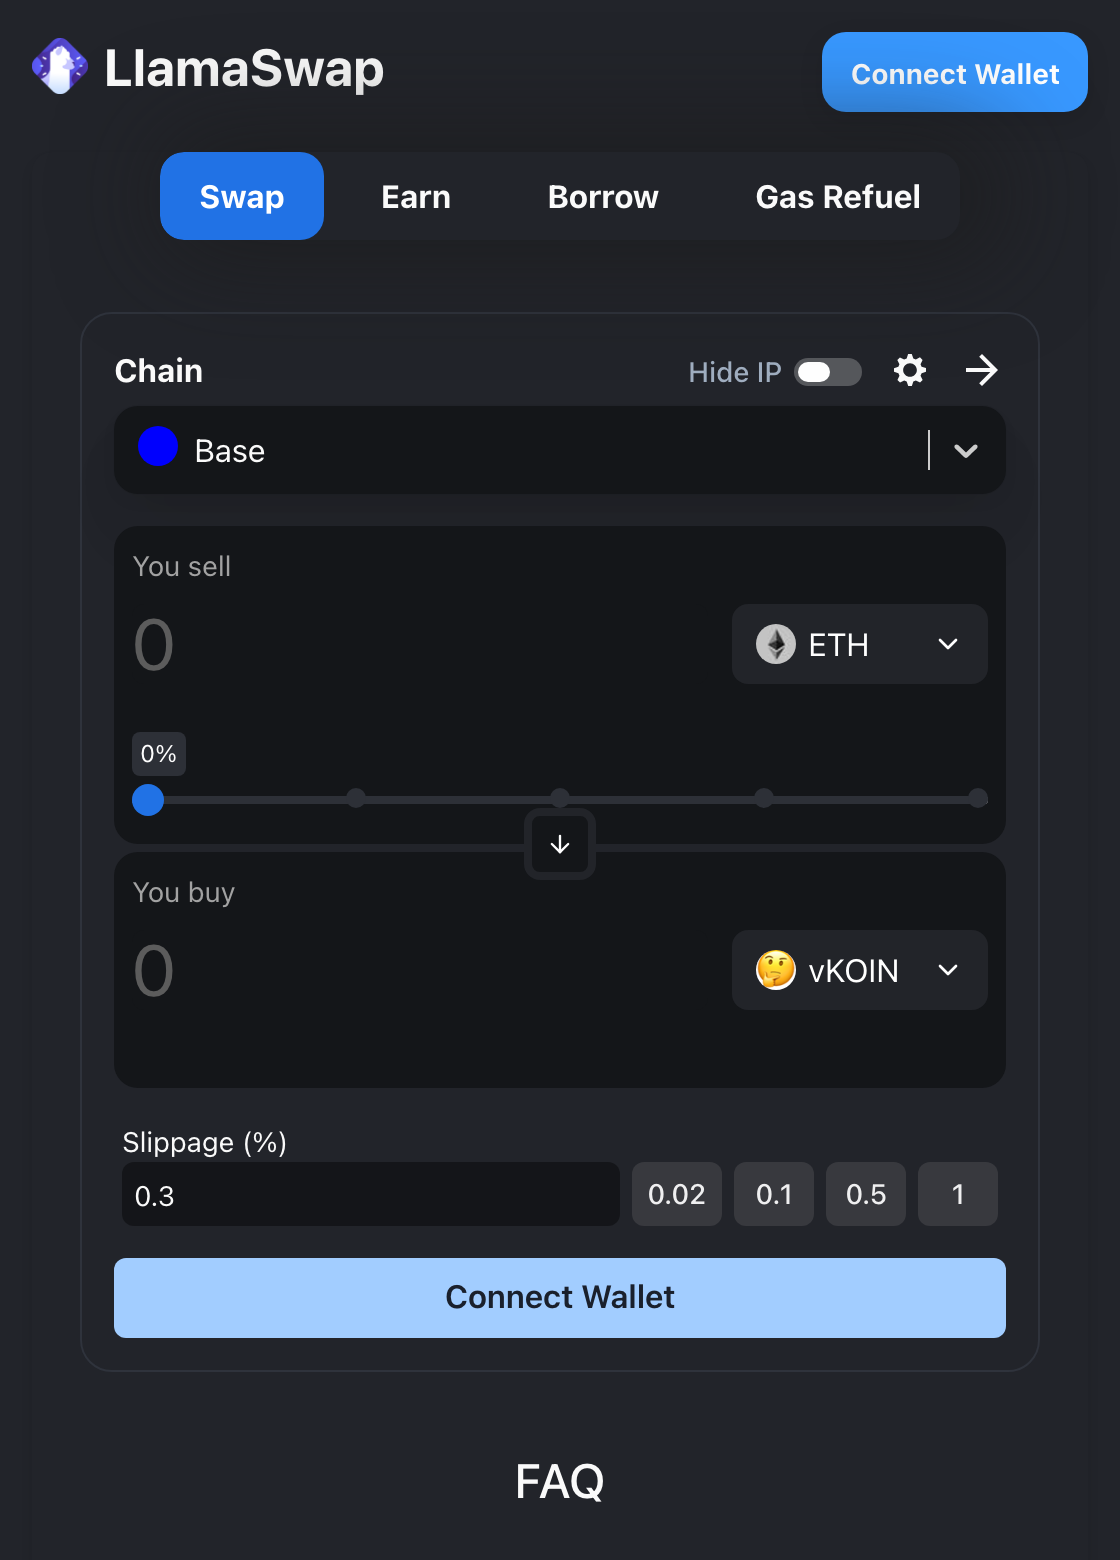
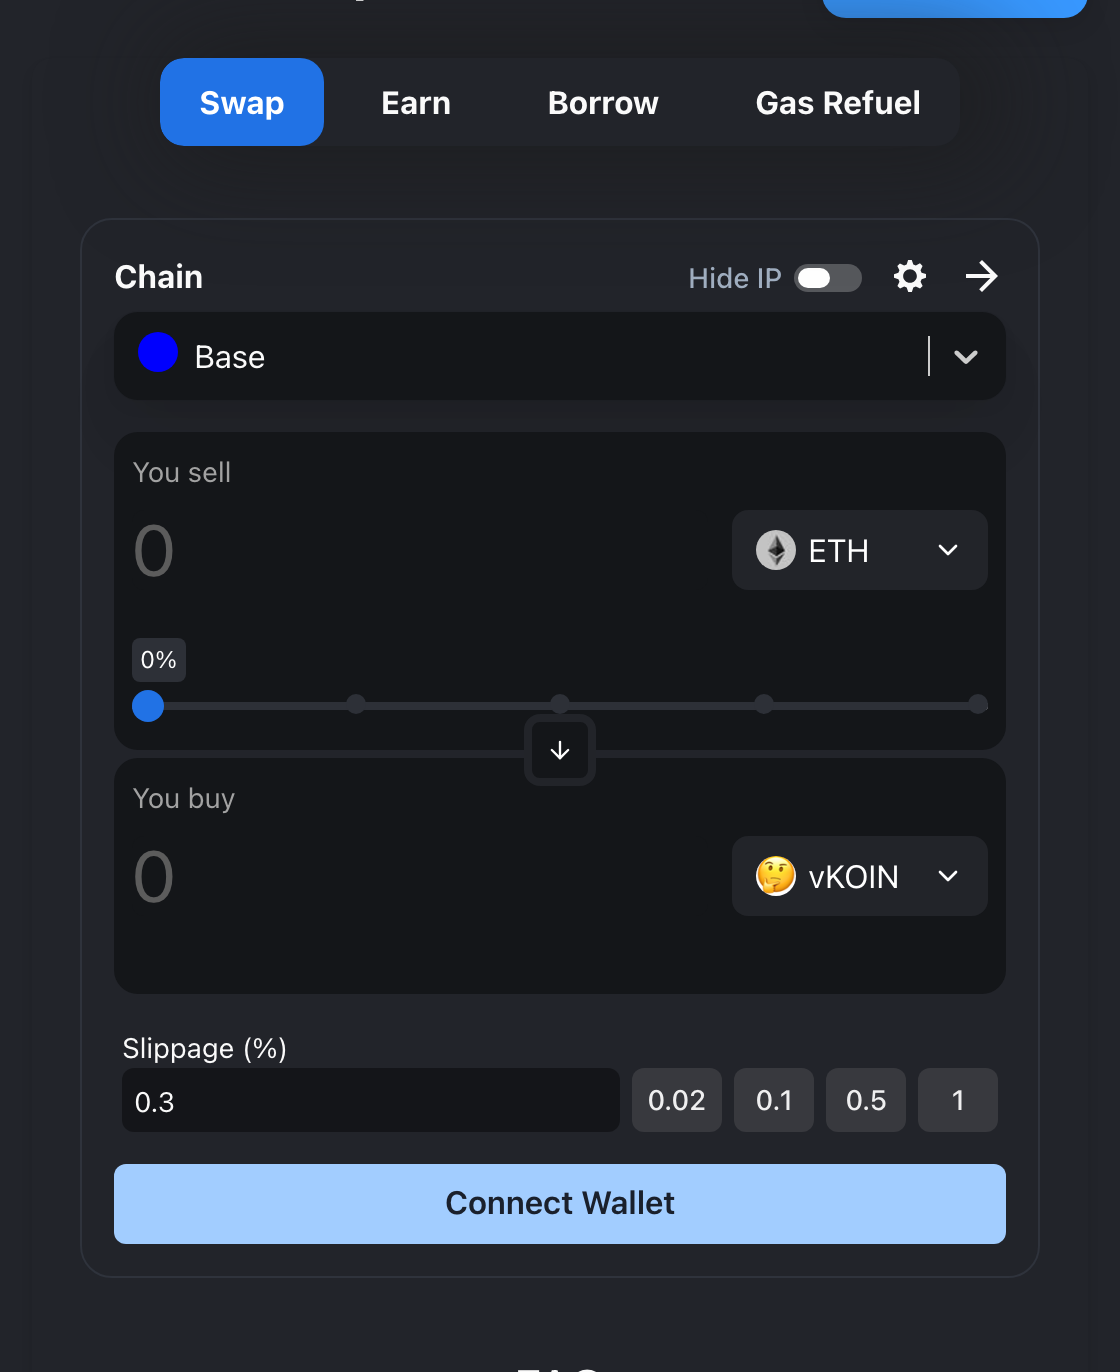
Address fourth review: Phantom EVM facts, footer wording, approval note, less bloat
- Phantom shares one 0x address between Ethereum and Base and keeps a
  separate Solana address; it detects tokens itself and has no
  import-by-address. The copy said otherwise.
- The footer told readers to trust their own screen when it differs from
  a screenshot; a wrong screen is exactly when to stop. Now says so.
- Restore one safety line: a token permission outlives disconnecting.
- Drop wallet summaries that repeated the family label; bridge step
  back to two callouts; DeFiLlama screenshots cropped above their FAQ.

diff --git a/data/getKoin.js b/data/getKoin.js
@@ -44,7 +44,6 @@ export const WALLETS = [
     id: "metamask",
     name: "MetaMask",
     family: "Ethereum and Base",
-    summary: "The most common browser wallet for Ethereum and Base.",
     install: "https://metamask.io/download",
     installLabel: "metamask.io/download",
     routes: ["ethereum", "base"],
@@ -60,8 +59,6 @@ export const WALLETS = [
     id: "rabby",
     name: "Rabby",
     family: "Ethereum and Base",
-    summary:
-      "A browser wallet for Ethereum-style networks that simulates each transaction before you sign it.",
     install: "https://rabby.io/",
     installLabel: "rabby.io",
     routes: ["ethereum", "base"],
@@ -77,26 +74,22 @@ export const WALLETS = [
     id: "phantom",
     name: "Phantom",
     family: "Solana, Ethereum and Base",
-    summary:
-      "A browser wallet that started on Solana and now also supports Ethereum and Base.",
     install: "https://phantom.com/download",
     installLabel: "phantom.com/download",
     routes: ["ethereum", "base", "solana"],
-    addressKind: "a separate address for each network",
+    addressKind: "two addresses",
     addressNote:
-      "Copy the one for the network in your plan; the Solana and Ethereum addresses look nothing alike.",
+      "One 0x address shared by Ethereum and Base, and a separate Solana address. Copy the one for the network in your plan.",
     quirks: [
-      "Open Receive and pick the network first — Phantom shows a different address for each.",
-      "On Solana, tokens usually appear by themselves. On Ethereum and Base you may need to add vKOIN by address.",
-      "Keep a little SOL or ETH on the network you use; every action costs a small fee.",
+      "Open Receive and pick the network first. Ethereum and Base share one address; Solana has its own.",
+      "Phantom finds tokens by itself and has no import-by-address. If vKOIN is missing, check the transaction in the explorer, then Phantom's hidden tokens list.",
+      "Keep some SOL or ETH on the network you use; every transaction costs a fee, and on Ethereum it is not always small.",
     ],
   },
   {
     id: "kondor",
     name: "Kondor",
     family: "Koinos",
-    summary:
-      "The Koinos browser wallet. It holds native KOIN and connects to KoinDX and the Koinos side of Vortex.",
     install: "https://kondorwallet.com/",
     installLabel: "kondorwallet.com",
     routes: ["koinos"],
@@ -113,9 +106,11 @@ export const WALLETS = [
 //
 // Vortex bridges Koinos <-> Ethereum only (its network chooser offers exactly
 // those two). vKOIN on Base and Solana is the Ethereum vKOIN moved there through
-// Portal (Wormhole) — verified on-chain: the Base contract reports Wormhole
-// chain id 2 (Ethereum) and the Solana mint authority is the Wormhole token
-// bridge. So those routes stop at vKOIN.
+// Portal (Wormhole). Evidence: the Base contract answers Wormhole
+// TokenImplementation.chainId() = 2 (Ethereum origin), the Solana mint
+// authority is the Wormhole token bridge, and the project's own announcements
+// (data/history-content.json) describe the Wormhole/Portal route. So those
+// routes stop at vKOIN.
 //
 // The Koinos route is not a way to buy a first KOIN: an empty Koinos account
 // has no mana of its own.
@@ -423,10 +418,6 @@ function bridgeStep() {
     ],
     callouts: [
       {
-        type: "warning",
-        text: "Keep the transaction hash. Without it a half-finished transfer is hard to resume.",
-      },
-      {
         type: "cost",
         text: "Ethereum fees for the permission and the deposit. The redeem runs on Koinos, where transactions use mana — if your Kondor account is new and empty, read what the redeem asks for before you deposit.",
       },
@@ -595,6 +586,7 @@ export const SAFETY = {
     "Compare token and destination addresses in full, not just the ends.",
     "Small test amount first. Keep some ETH or SOL for the next step.",
     "Read every wallet pop-up. Site, token, amount and destination must match the step you are on.",
+    "A token permission outlives disconnecting from a site. Approve only the amount you need, and revoke it afterwards.",
     "Ignore anyone who contacts you privately offering help, recovery or a better price.",
   ],
 };

diff --git a/pages/get-koin.js b/pages/get-koin.js
@@ -532,7 +532,6 @@ export default function GetKoinPage() {
 
                 <div className={styles.walletNotes}>
                   <h3 className={styles.h3}>Specific to {activeWallet.name}</h3>
-                  <p className={styles.bodyText}>{activeWallet.summary}</p>
                   <ul className={styles.notesList}>
                     {activeWallet.quirks.map((quirk, i) => (
                       <li key={i}>{quirk}</li>
@@ -648,9 +647,9 @@ export default function GetKoinPage() {
               </p>
             ))}
             <p className={styles.fineprint}>
-              Steps last verified {LAST_VERIFIED}. Interfaces change; when a screen
-              differs from a screenshot here, trust what your own screen says, and
-              ask in the{" "}
+              Steps last verified {LAST_VERIFIED}. Interfaces change. If a screen
+              differs from a screenshot here, stop, check the network, token
+              address, destination and amount before signing, and ask in the{" "}
               <Link
                 href={OFFICIAL_LINKS.telegram}
                 target="_blank"
